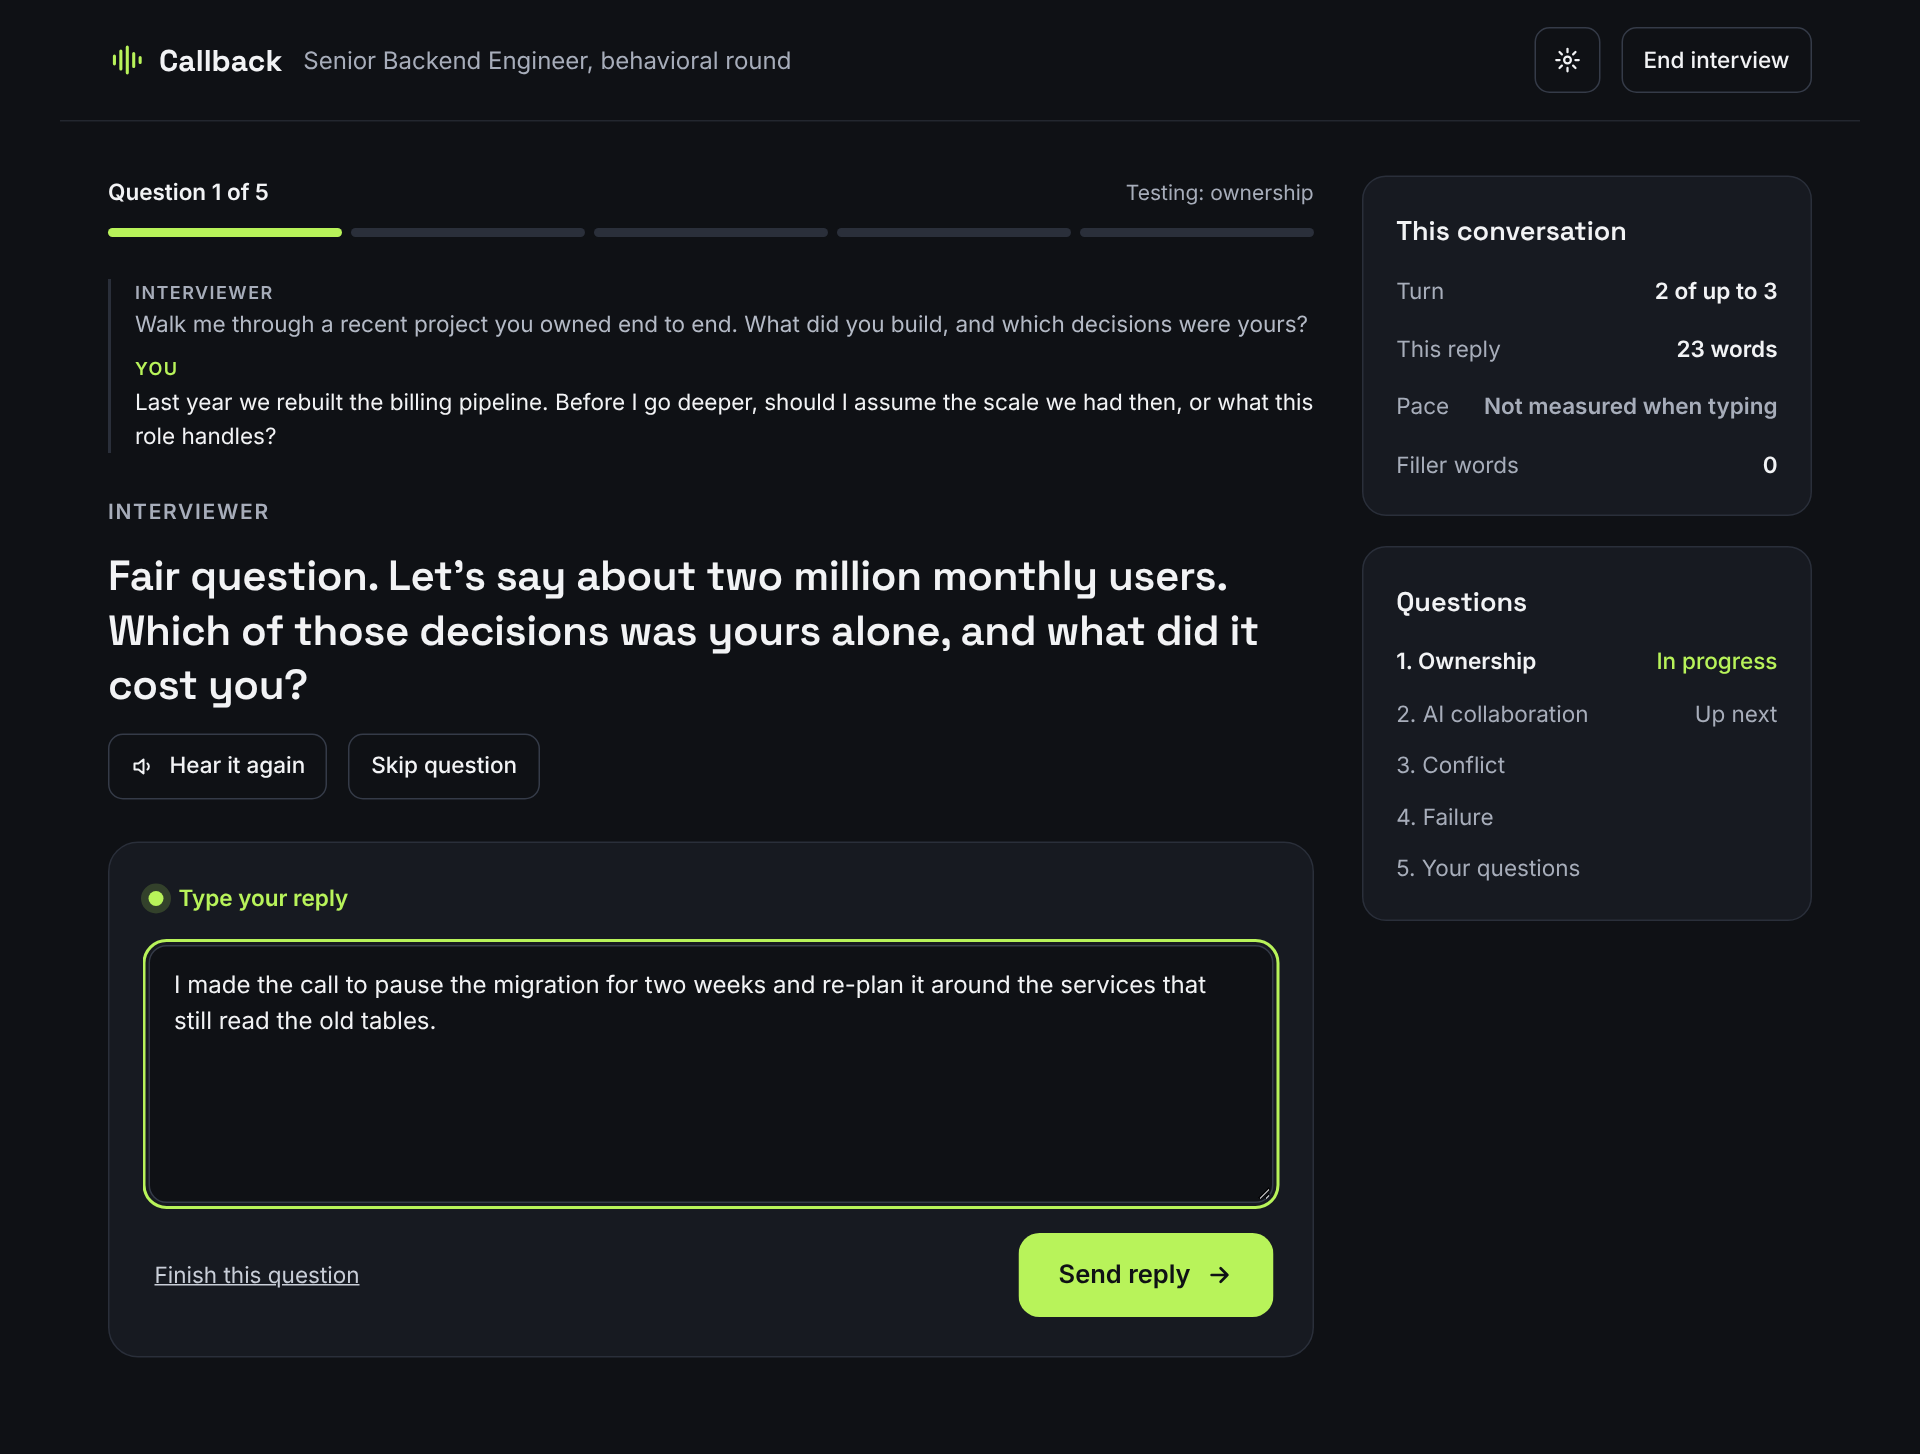
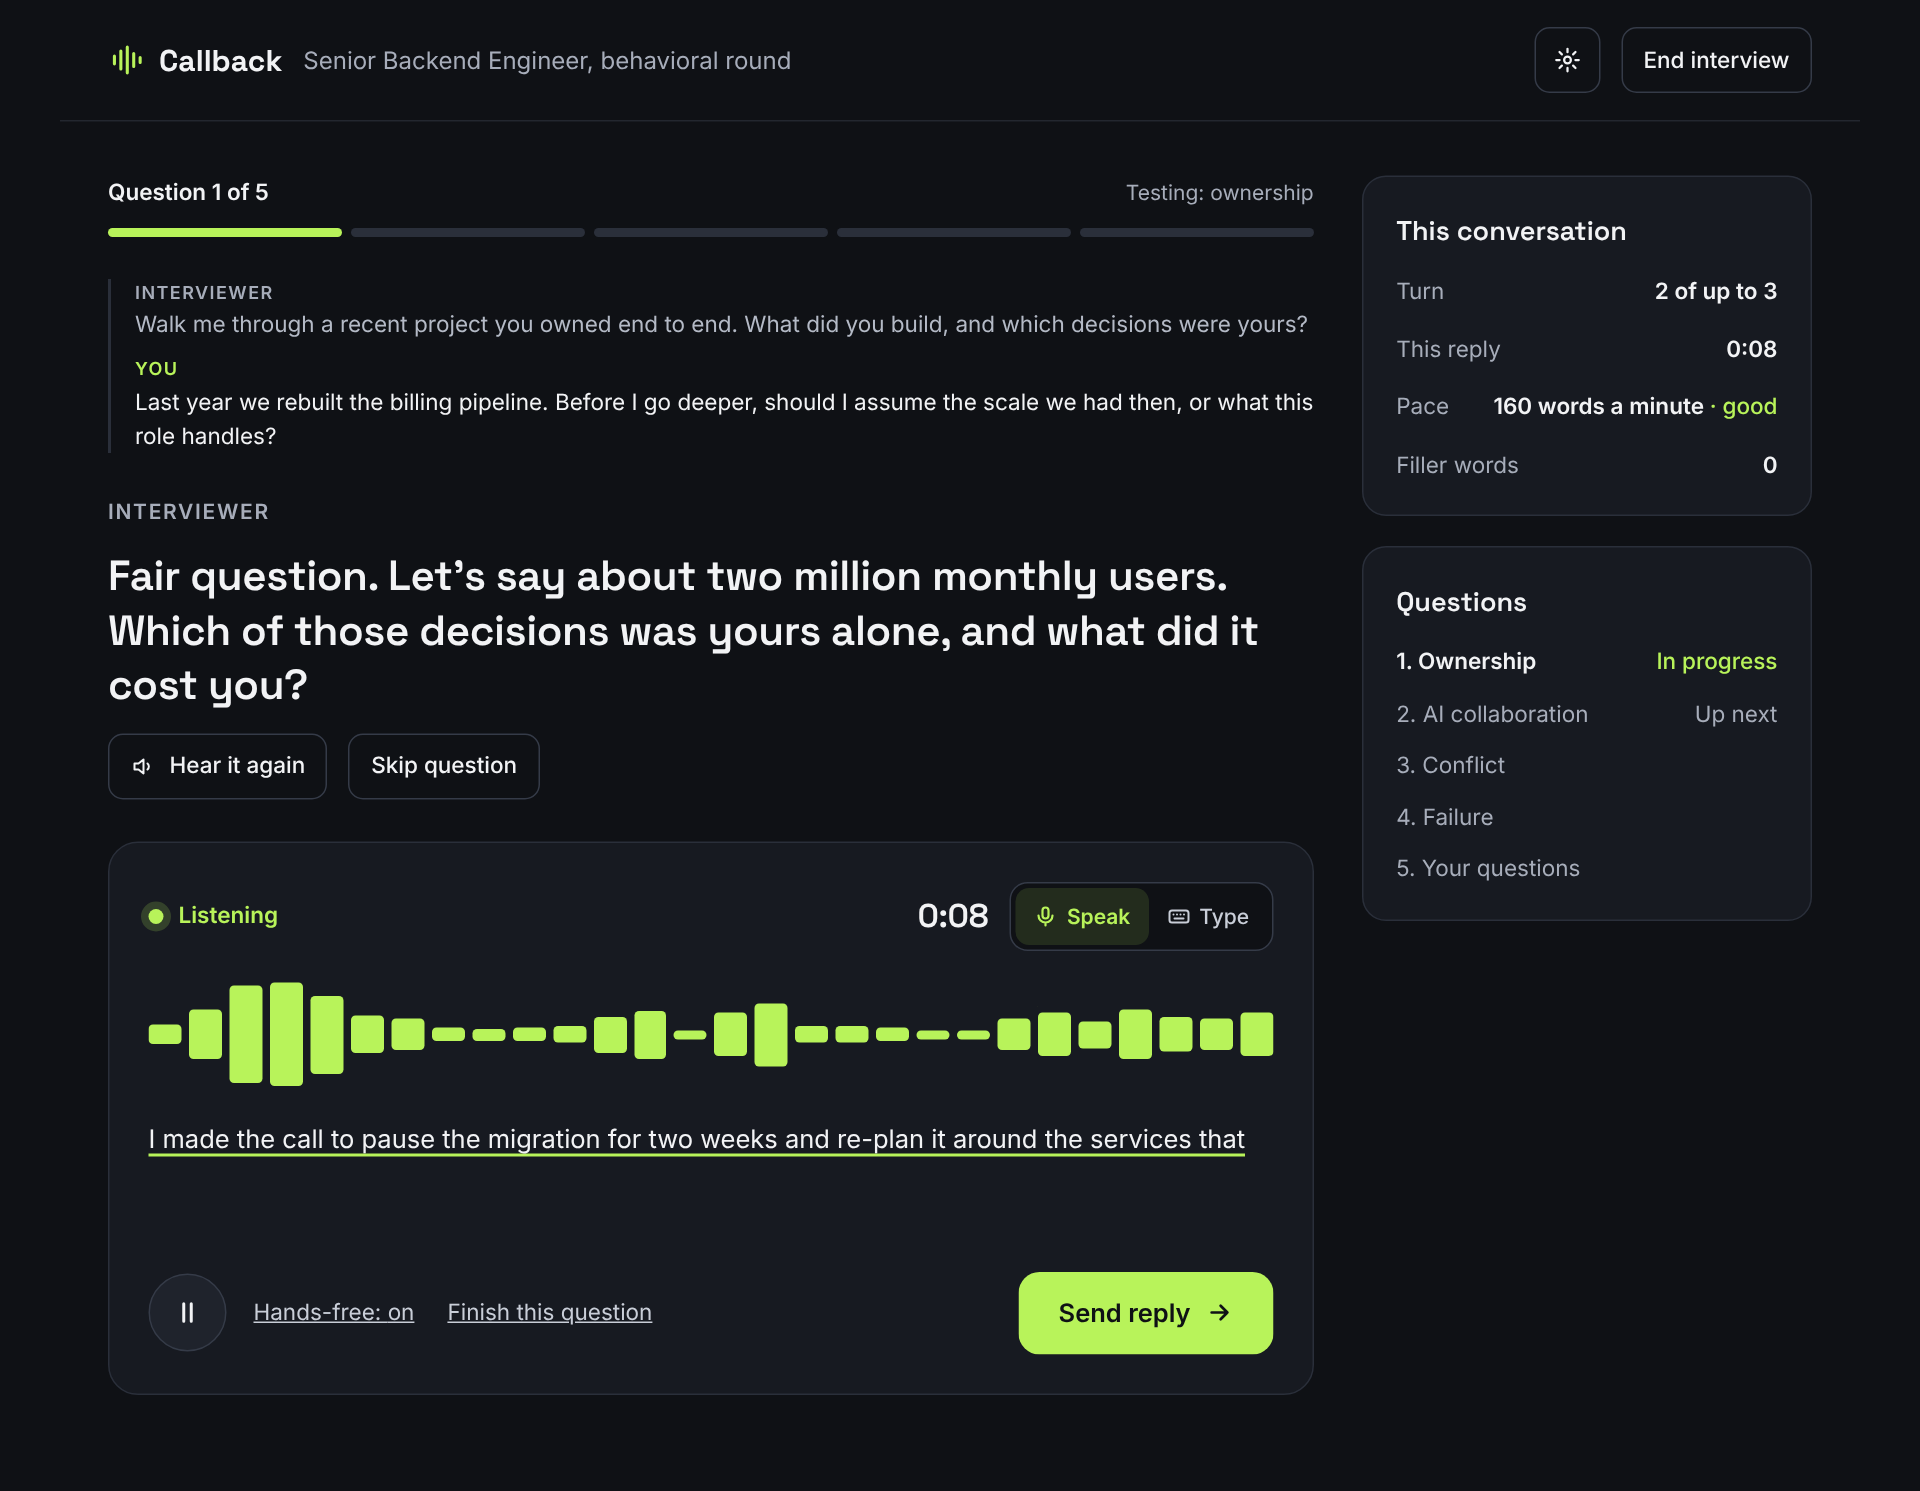
Show that you can speak or type, and let people switch both ways
The answer card had a small 'Type instead' link that only went one
way, and the README pictures were taken in typed mode, so the app
looked like a text box.

- Replace the link with a Speak / Type switch that works in both
  directions and keeps the answer so far.
- Retake the README screenshots from a spoken session.

Claude-Session: https://claude.ai/code/session_01Wfo8CpHJxNjs6q3tEde2oy

diff --git a/web/src/screens/Interview.tsx b/web/src/screens/Interview.tsx
@@ -67,7 +67,7 @@ export function Interview({
   onOpenSettings: () => void;
   /** The candidate chose to type earlier in this interview. */
   preferTyping: boolean;
-  onPreferTyping: () => void;
+  onPreferTyping: (typing: boolean) => void;
 }) {
   const topic = session.plan[session.index];
   const closing = topic.kind === "candidate-questions";
@@ -318,11 +318,23 @@ export function Interview({
   const answered = () => exchanges.current.filter((e) => !e.aside).length;
 
   const switchToTyping = () => {
+    if (typingRef.current) return;
     recognizer.current?.stop();
     setTyped(spoken);
     setTyping(true);
     usedTyping.current = true;
-    onPreferTyping();
+    onPreferTyping(true);
+  };
+
+  /** Back to speaking, carrying on from whatever has been typed so far. */
+  const switchToSpeaking = () => {
+    if (!voiceSupported || !typingRef.current) return;
+    const soFar = typed.trim();
+    typingRef.current = false;
+    setTyping(false);
+    setNotice(null);
+    onPreferTyping(false);
+    begin(prompt, { initial: soFar, silent: true });
   };
 
   /** Skipping or ending throws away what was said on this topic, so ask first. */
@@ -666,7 +678,21 @@ export function Interview({
                 <span className="dot" aria-hidden="true" />
                 {status}
               </p>
-              <p className="timer">{usedTyping.current ? "" : clock(turnSeconds)}</p>
+              <div className="row">
+                <p className="timer">{usedTyping.current ? "" : clock(turnSeconds)}</p>
+                {voiceSupported ? (
+                  <div className="mode" role="group" aria-label="How to answer">
+                    <button type="button" className="mode-speak" aria-pressed={!typing} disabled={busy || phase === "stalled" || phase === "failed"} onClick={switchToSpeaking}>
+                      {Icon.mic}
+                      Speak
+                    </button>
+                    <button type="button" className="mode-type" aria-pressed={typing} disabled={busy || phase === "stalled" || phase === "failed"} onClick={switchToTyping}>
+                      {Icon.keyboard}
+                      Type
+                    </button>
+                  </div>
+                ) : null}
+              </div>
             </div>
 
             {typing ? (
@@ -701,7 +727,7 @@ export function Interview({
                         ? "Listen, then reply out loud."
                         : closing
                           ? "Ask your question out loud."
-                          : 'Start speaking. You can ask a question back, or say "can you repeat the question?"'}
+                          : 'Start speaking, or switch to Type. You can ask a question back, or say "can you repeat the question?"'}
                     </span>
                   )}
                 </p>
@@ -772,11 +798,6 @@ export function Interview({
                     {phase === "paused" ? Icon.play : Icon.pause}
                   </button>
                 )}
-                {!typing && answering ? (
-                  <button type="button" className="link-btn" onClick={switchToTyping}>
-                    Type instead
-                  </button>
-                ) : null}
                 {!typing ? (
                   <button
                     type="button"

diff --git a/web/src/styles.css b/web/src/styles.css
@@ -758,6 +758,35 @@ mark.point sup {
 [hidden] {
   display: none !important;
 }
+.mode {
+  display: inline-flex;
+  padding: 3px;
+  border: 1px solid var(--line-strong);
+  border-radius: 12px;
+  background: var(--bg);
+}
+.mode button {
+  display: inline-flex;
+  align-items: center;
+  gap: 6px;
+  min-height: 38px;
+  padding: 6px 12px;
+  border: 0;
+  border-radius: 9px;
+  background: transparent;
+  color: var(--text-2);
+  font-size: 14px;
+  font-weight: 500;
+}
+.mode button svg {
+  width: 16px;
+  height: 16px;
+}
+.mode button[aria-pressed="true"] {
+  background: var(--accent-soft);
+  color: var(--accent);
+  font-weight: 600;
+}
 .side-card {
   display: flex;
   flex-direction: column;

diff --git a/web/src/components.tsx b/web/src/components.tsx
@@ -64,6 +64,12 @@ export const Icon = {
       <path d="M8 5l11 7-11 7z" />
     </svg>
   ),
+  keyboard: (
+    <svg aria-hidden="true" width="20" height="20" viewBox="0 0 24 24" {...stroke} strokeWidth={2}>
+      <rect x="2.5" y="6" width="19" height="12" rx="2.5" />
+      <path d="M6.5 10h.01M10 10h.01M13.5 10h.01M17 10h.01M7.5 14h9" />
+    </svg>
+  ),
   gear: (
     <svg aria-hidden="true" width="18" height="18" viewBox="0 0 24 24" {...stroke} strokeWidth={2}>
       <circle cx="12" cy="12" r="3" />

diff --git a/web/src/App.tsx b/web/src/App.tsx
@@ -197,7 +197,7 @@ export function App() {
           }}
           onOpenSettings={() => setDialog({})}
           preferTyping={preferTyping}
-          onPreferTyping={() => setPreferTyping(true)}
+          onPreferTyping={setPreferTyping}
         />
       ) : stage === "feedback" && round ? (
         <Feedback session={session} round={round} onRetry={retry} onNext={() => goTo(session, session.index + 1)} onFinish={() => finish(session)} />

diff --git a/README.md b/README.md
@@ -12,11 +12,14 @@ run entirely on your own computer.
 
 **[Try it in your browser →](https://utsabpant.com/interview-coach/)**
 
-![The interviewer answers a clarifying question, then probes further](docs/screenshots/conversation.png)
+![Mid-interview: Callback is listening and transcribing a spoken answer, with a Speak / Type switch beside the timer](docs/screenshots/conversation.png)
+
+*Answer out loud or by typing. Switch between the two at any point, even mid-answer.*
 
 ## Why Callback
 
 - **A real conversation.** The interviewer reacts to what you say, answers your clarifying questions, pushes back on vague claims, and moves on when a topic is covered. You talk; your words are transcribed as you speak.
+- **Speak or type.** Answer out loud, or flip the switch to Type when you are somewhere quiet or have no microphone. What you have said so far carries over, and you can switch back.
 - **It listens.** Stop talking and the interviewer takes its turn, with no button to press. Say "can you repeat the question?" or "could you rephrase that?" and it does.
 - **Interviews the way they are run now.** Questions are practical and close to the job: project deep dives, production incidents, reviewing AI-generated code, designing AI-powered features, and how you work with AI tools. No brainteasers, trivia, or "greatest weakness".
 - **Your turn to ask.** Each round ends with your questions for the interviewer, and those are scored too.

diff --git a/CHANGELOG.md b/CHANGELOG.md
@@ -5,6 +5,8 @@ Notable changes, newest first.
 ## Unreleased
 
 ### Added
+- **Speak / Type switch** in the answer card. It works both ways and keeps what you have said or
+  typed so far. It replaces the one-way "Type instead" link.
 - **Guardrails:** conduct rules on every model request, checks that withhold insulting or improper
   interviewer replies and questions about protected topics, calm handling of a candidate who
   swears, and a pause with support information when a candidate seems to be in distress.
